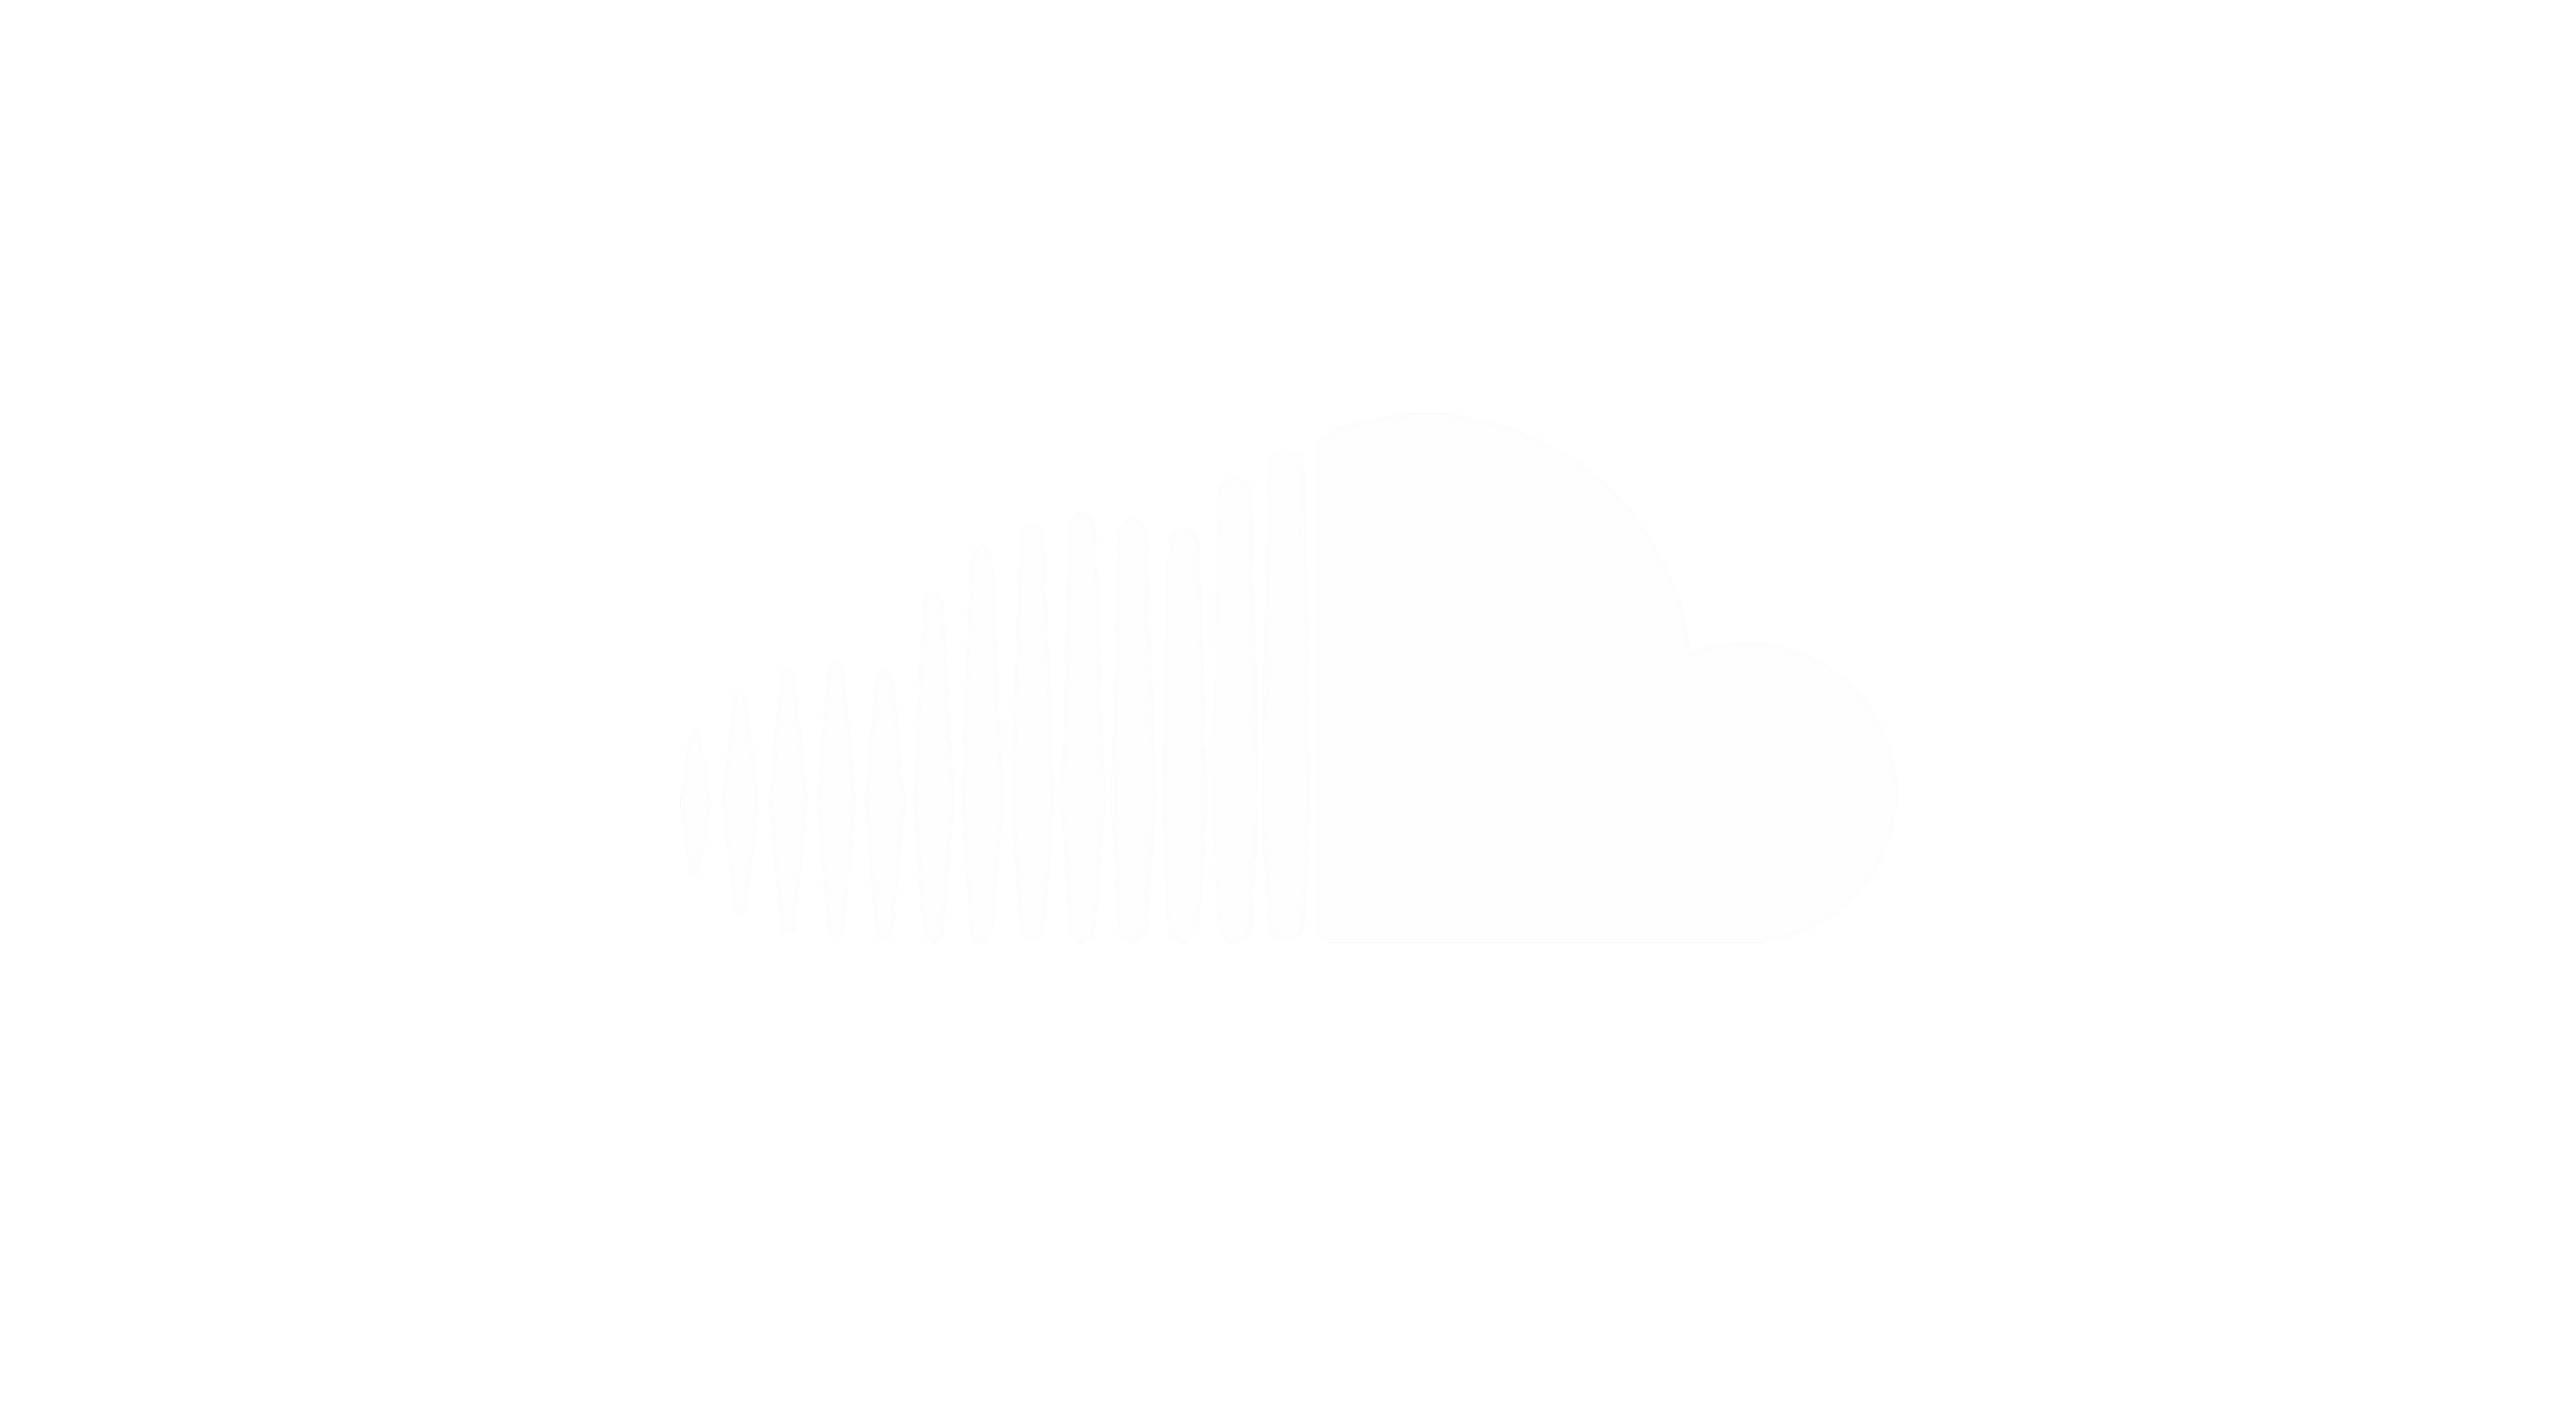
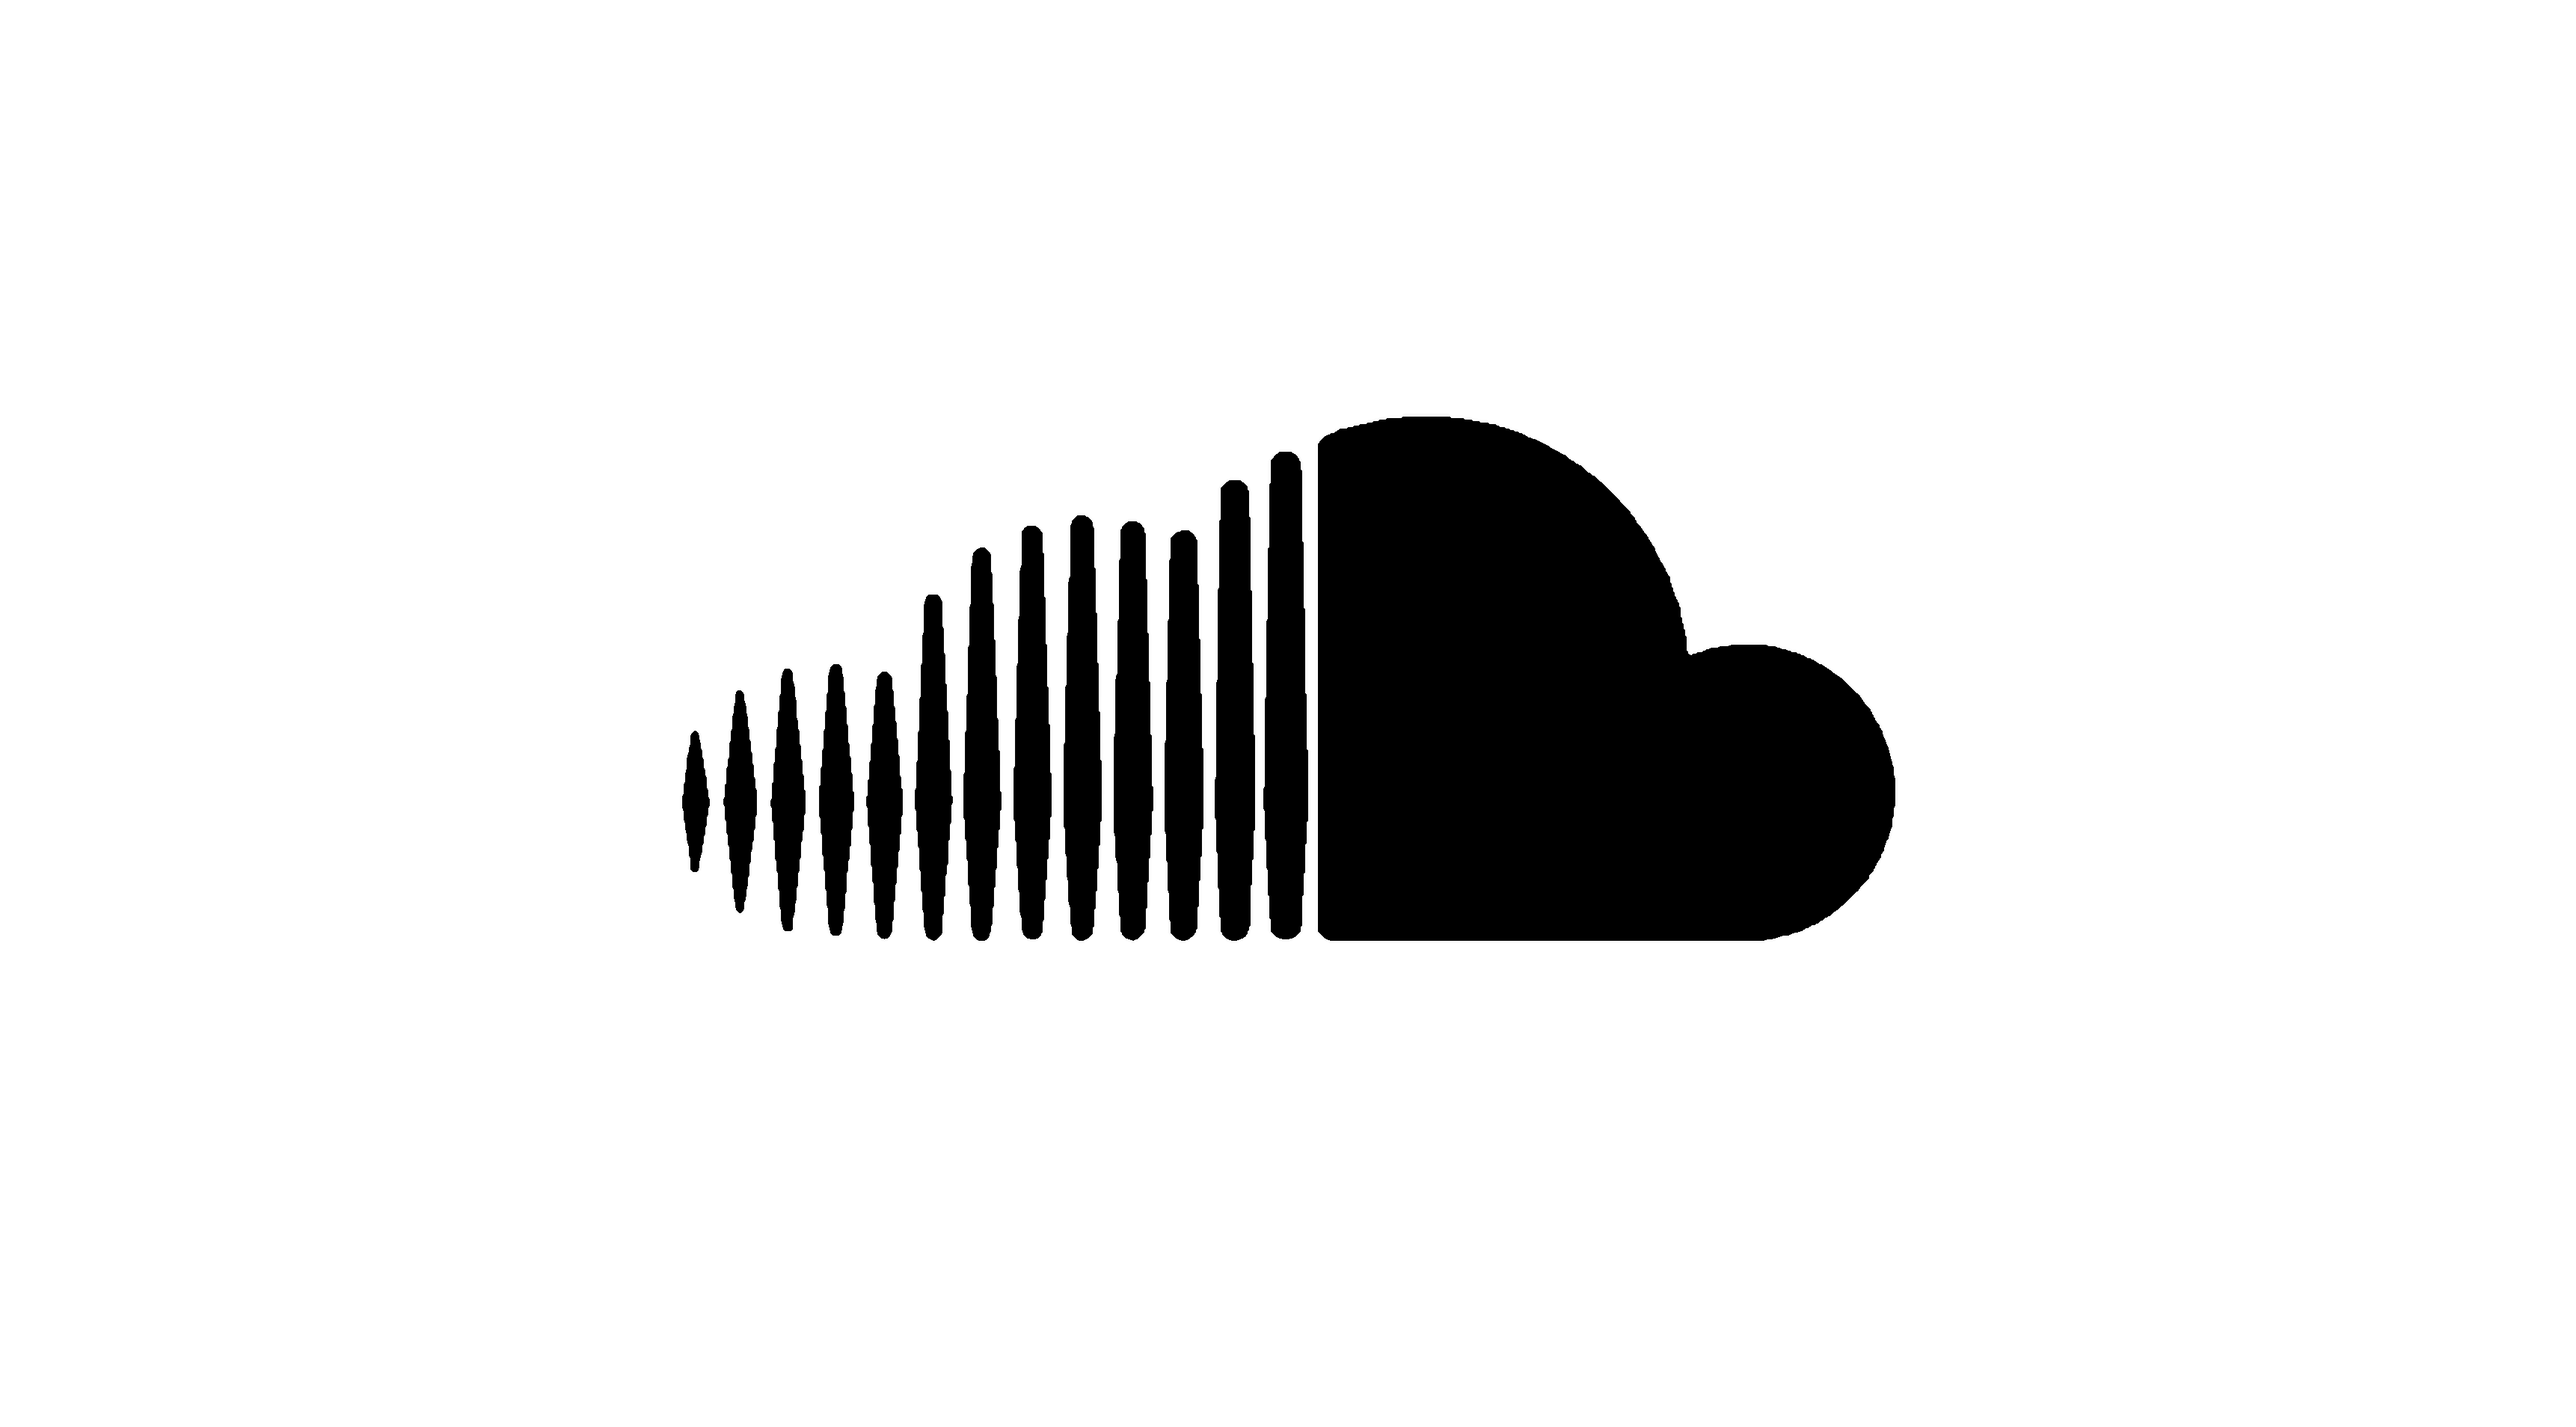
moved external links to bio, image updates

Changed region(s): [[0.2485, 0.2783, 0.7456, 0.6803]]

diff --git a/src/components/_siteWide/layout/layout.jsx b/src/components/_siteWide/layout/layout.jsx
@@ -1,11 +1,8 @@
 import React from 'react'
-import { Row, Spin, Tooltip } from 'antd'
-import { FacebookFilled, GithubFilled, LinkedinFilled } from '@ant-design/icons'
+import { Row, Spin } from 'antd'
 import { GoogleMap, Marker, withScriptjs, withGoogleMap } from 'react-google-maps'
 import { isArray } from 'utils/general'
 import { keys } from 'keys'
-import soundCloud from 'assets/sound-cloud.png'
-import soundCloudDark from 'assets/sound-cloud-dark.png'
 import './layout.scss'
 
 export const DataItem = ({ label, children, labelClasses = '', childrenClasses = '' }) => {
@@ -61,61 +58,19 @@ const MapMarker = ({ lat, lon }) => (
   </GoogleMap>
 )
 
-export const NoData = ({ message = 'No Data', extraClasses = '' }) => (
-  <div className={`content-center no-data-container ${extraClasses}`}>
-    <div className='ant-empty ant-empty-normal'>
-      <div className='ant-empty-image'>
-        <svg
-          className='ant-empty-img-simple'
-          width='64'
-          height='41'
-          viewBox='0 0 64 41'
-          xmlns='http://www.w3.org/2000/svg'
-        >
-          <g transform='translate(0 1)' fill='none'>
-            <ellipse className='ant-empty-img-simple-ellipse' cx='32' cy='33' rx='32' ry='7'></ellipse>
-            <g className='ant-empty-img-simple-g'>
-              <path d='M55 12.76L44.854 1.258C44.367.474 43.656 0 42.907 0H21.093c-.749 0-1.46.474-1.947 1.257L9 12.761V22h46v-9.24z'></path>
-              <path
-                d='M41.613 15.931c0-1.605.994-2.93 2.227-2.931H55v18.137C55 33.26 53.68 35 52.05 35h-40.1C10.32 35 9 33.259 9 31.137V13h11.16c1.233 0 2.227 1.323 2.227 2.928v.022c0 1.605 1.005 2.901 2.237 2.901h14.752c1.232 0 2.237-1.308 2.237-2.913v-.007z'
-                className='ant-empty-img-simple-path'
-              ></path>
-            </g>
-          </g>
-        </svg>
-      </div>
-      <div className='ant-empty-description'>{message}</div>
-    </div>
-  </div>
-)
-
-export const ExternalLinks = ({ extraClasses = '', theme = 'light' }) => (
-  <div className={extraClasses}>
-    <Tooltip title='LinkedIn' mouseEnterDelay={0.5}>
-      <LinkedinFilled
-        className={`external-link ${theme}`}
-        onClick={() => window.open('https://www.linkedin.com/in/kevin-smith-26339411a/', '_blank')}
-      />
-    </Tooltip>
-    <Tooltip title='Github' mouseEnterDelay={0.5}>
-      <GithubFilled
-        className={`external-link ${theme}`}
-        onClick={() => window.open('https://github.com/ksmith0813/portfolio', '_blank')}
-      />
-    </Tooltip>
-    <Tooltip title='Facebook' mouseEnterDelay={0.5}>
-      <FacebookFilled
-        className={`external-link ${theme}`}
-        onClick={() => window.open('https://www.facebook.com/profile.php?id=20614115', '_blank')}
-      />
-    </Tooltip>
-    <Tooltip title='SoundCloud' mouseEnterDelay={0.5}>
-      <img
-        alt=''
-        src={theme === 'light' ? soundCloud : soundCloudDark}
-        className={`sound-cloud ${theme}`}
-        onClick={() => window.open('https://soundcloud.com/kevbot0813', '_blank')}
-      />
-    </Tooltip>
+export const NoData = ({ message = 'No Data' }) => (
+  <div className='flex flex-column justify-center'>
+    <svg className='ant-empty-img-simple' width='64' height='41' viewBox='0 0 64 41' xmlns='http://www.w3.org/2000/svg'>
+      <g transform='translate(0 1)' fill='none'>
+        <g className='ant-empty-img-simple-g'>
+          <path d='M55 12.76L44.854 1.258C44.367.474 43.656 0 42.907 0H21.093c-.749 0-1.46.474-1.947 1.257L9 12.761V22h46v-9.24z'></path>
+          <path
+            d='M41.613 15.931c0-1.605.994-2.93 2.227-2.931H55v18.137C55 33.26 53.68 35 52.05 35h-40.1C10.32 35 9 33.259 9 31.137V13h11.16c1.233 0 2.227 1.323 2.227 2.928v.022c0 1.605 1.005 2.901 2.237 2.901h14.752c1.232 0 2.237-1.308 2.237-2.913v-.007z'
+            className='ant-empty-img-simple-path'
+          ></path>
+        </g>
+      </g>
+    </svg>
+    <div className='no-data-message'>{message}</div>
   </div>
 )

diff --git a/src/components/bio/bio.jsx b/src/components/bio/bio.jsx
@@ -1,10 +1,11 @@
 import React from 'react'
 import { useSelector } from 'react-redux'
-import { Avatar } from 'antd'
-import { ExternalLinks } from 'components/_siteWide/layout/layout'
+import { Avatar, Tooltip } from 'antd'
+import { FacebookFilled, GithubFilled, LinkedinFilled } from '@ant-design/icons'
 import { getState } from 'store/slices/themeSlice'
 import signature from 'assets/signature.png'
 import kevin from 'assets/kevin.jpg'
+import soundCloud from 'assets/sound-cloud.png'
 import './bio.scss'
 
 export const Bio = () => {
@@ -21,7 +22,7 @@ export const Bio = () => {
           C#, .NET, SQL Server. I love hanging out on the beach and getting lost in the woods and canyons. Traveling the
           world and going on endless adventures will always keep me moving forward. Aside from building software
           applications, I have a passion for making music in my home studio. Let's crank some code and rock out!
-          <ExternalLinks extraClasses='external-links' theme='dark' />
+          <ExternalLinks extraClasses='external-links' />
           <img className='signature' src={signature} alt='' />
         </div>
       </div>
@@ -29,3 +30,34 @@ export const Bio = () => {
     </div>
   )
 }
+
+const ExternalLinks = () => (
+  <div className='external-links'>
+    <Tooltip title='LinkedIn' mouseEnterDelay={0.5}>
+      <LinkedinFilled
+        className={`external-link`}
+        onClick={() => window.open('https://www.linkedin.com/in/kevin-smith-26339411a/', '_blank')}
+      />
+    </Tooltip>
+    <Tooltip title='Github' mouseEnterDelay={0.5}>
+      <GithubFilled
+        className={`external-link`}
+        onClick={() => window.open('https://github.com/ksmith0813/portfolio', '_blank')}
+      />
+    </Tooltip>
+    <Tooltip title='Facebook' mouseEnterDelay={0.5}>
+      <FacebookFilled
+        className={`external-link`}
+        onClick={() => window.open('https://www.facebook.com/profile.php?id=20614115', '_blank')}
+      />
+    </Tooltip>
+    <Tooltip title='SoundCloud' mouseEnterDelay={0.5}>
+      <img
+        alt=''
+        src={soundCloud}
+        className={`sound-cloud`}
+        onClick={() => window.open('https://soundcloud.com/kevbot0813', '_blank')}
+      />
+    </Tooltip>
+  </div>
+)

diff --git a/src/components/_siteWide/layout/layout.scss b/src/components/_siteWide/layout/layout.scss
@@ -13,46 +13,23 @@
     font-size: 1.25em;
     text-align: center;
     text-transform: capitalize;
-     &.selected {
+    &.selected {
       color: var(--gray-900);
     }
     &:hover {
       color: var(--gray-600);
     }
-    &:nth-child(n+2) {
+    &:nth-child(n + 2) {
       padding-left: 1.25em;
     }
   }
 }
 
-.external-links {
-  position: absolute;
-  margin-top: 3.5em;
-}
-.external-link {
-  &.light {
-    color: white !important;
-  }
-  &:nth-child(n + 2) {
-    padding-left: 0.75em;
-  }
-  &:hover {
-    cursor: pointer;
-    opacity: 0.7;
-  }
-}
-.sound-cloud {
-  height: 48px;
-  width: 75px;
-  margin-left: 0;
-}
-.sound-cloud:hover {
-  cursor: pointer;
-  opacity: 0.7;
-}
-
-.no-data-container {
-  width: 100%;
+.no-data-message {
+  text-align: center;
+  padding-top: 0.5em;
+  color: #cbcbcb;
+  font-weight: 100;
 }
 
 @media only screen and (max-width: 1024px) {

diff --git a/src/components/bio/bio.scss b/src/components/bio/bio.scss
@@ -18,6 +18,31 @@
       float: right;
     }
   }
+  .external-links {
+    position: absolute;
+    margin-top: 3.5em;
+  }
+  .external-link {
+    &.light {
+      color: white !important;
+    }
+    &:nth-child(n + 2) {
+      padding-left: 0.75em;
+    }
+    &:hover {
+      cursor: pointer;
+      opacity: 0.7;
+    }
+  }
+  .sound-cloud {
+    height: 48px;
+    width: 75px;
+    margin-left: 0;
+  }
+  .sound-cloud:hover {
+    cursor: pointer;
+    opacity: 0.7;
+  }
   .me-image {
     height: 450px;
     width: 450px;
